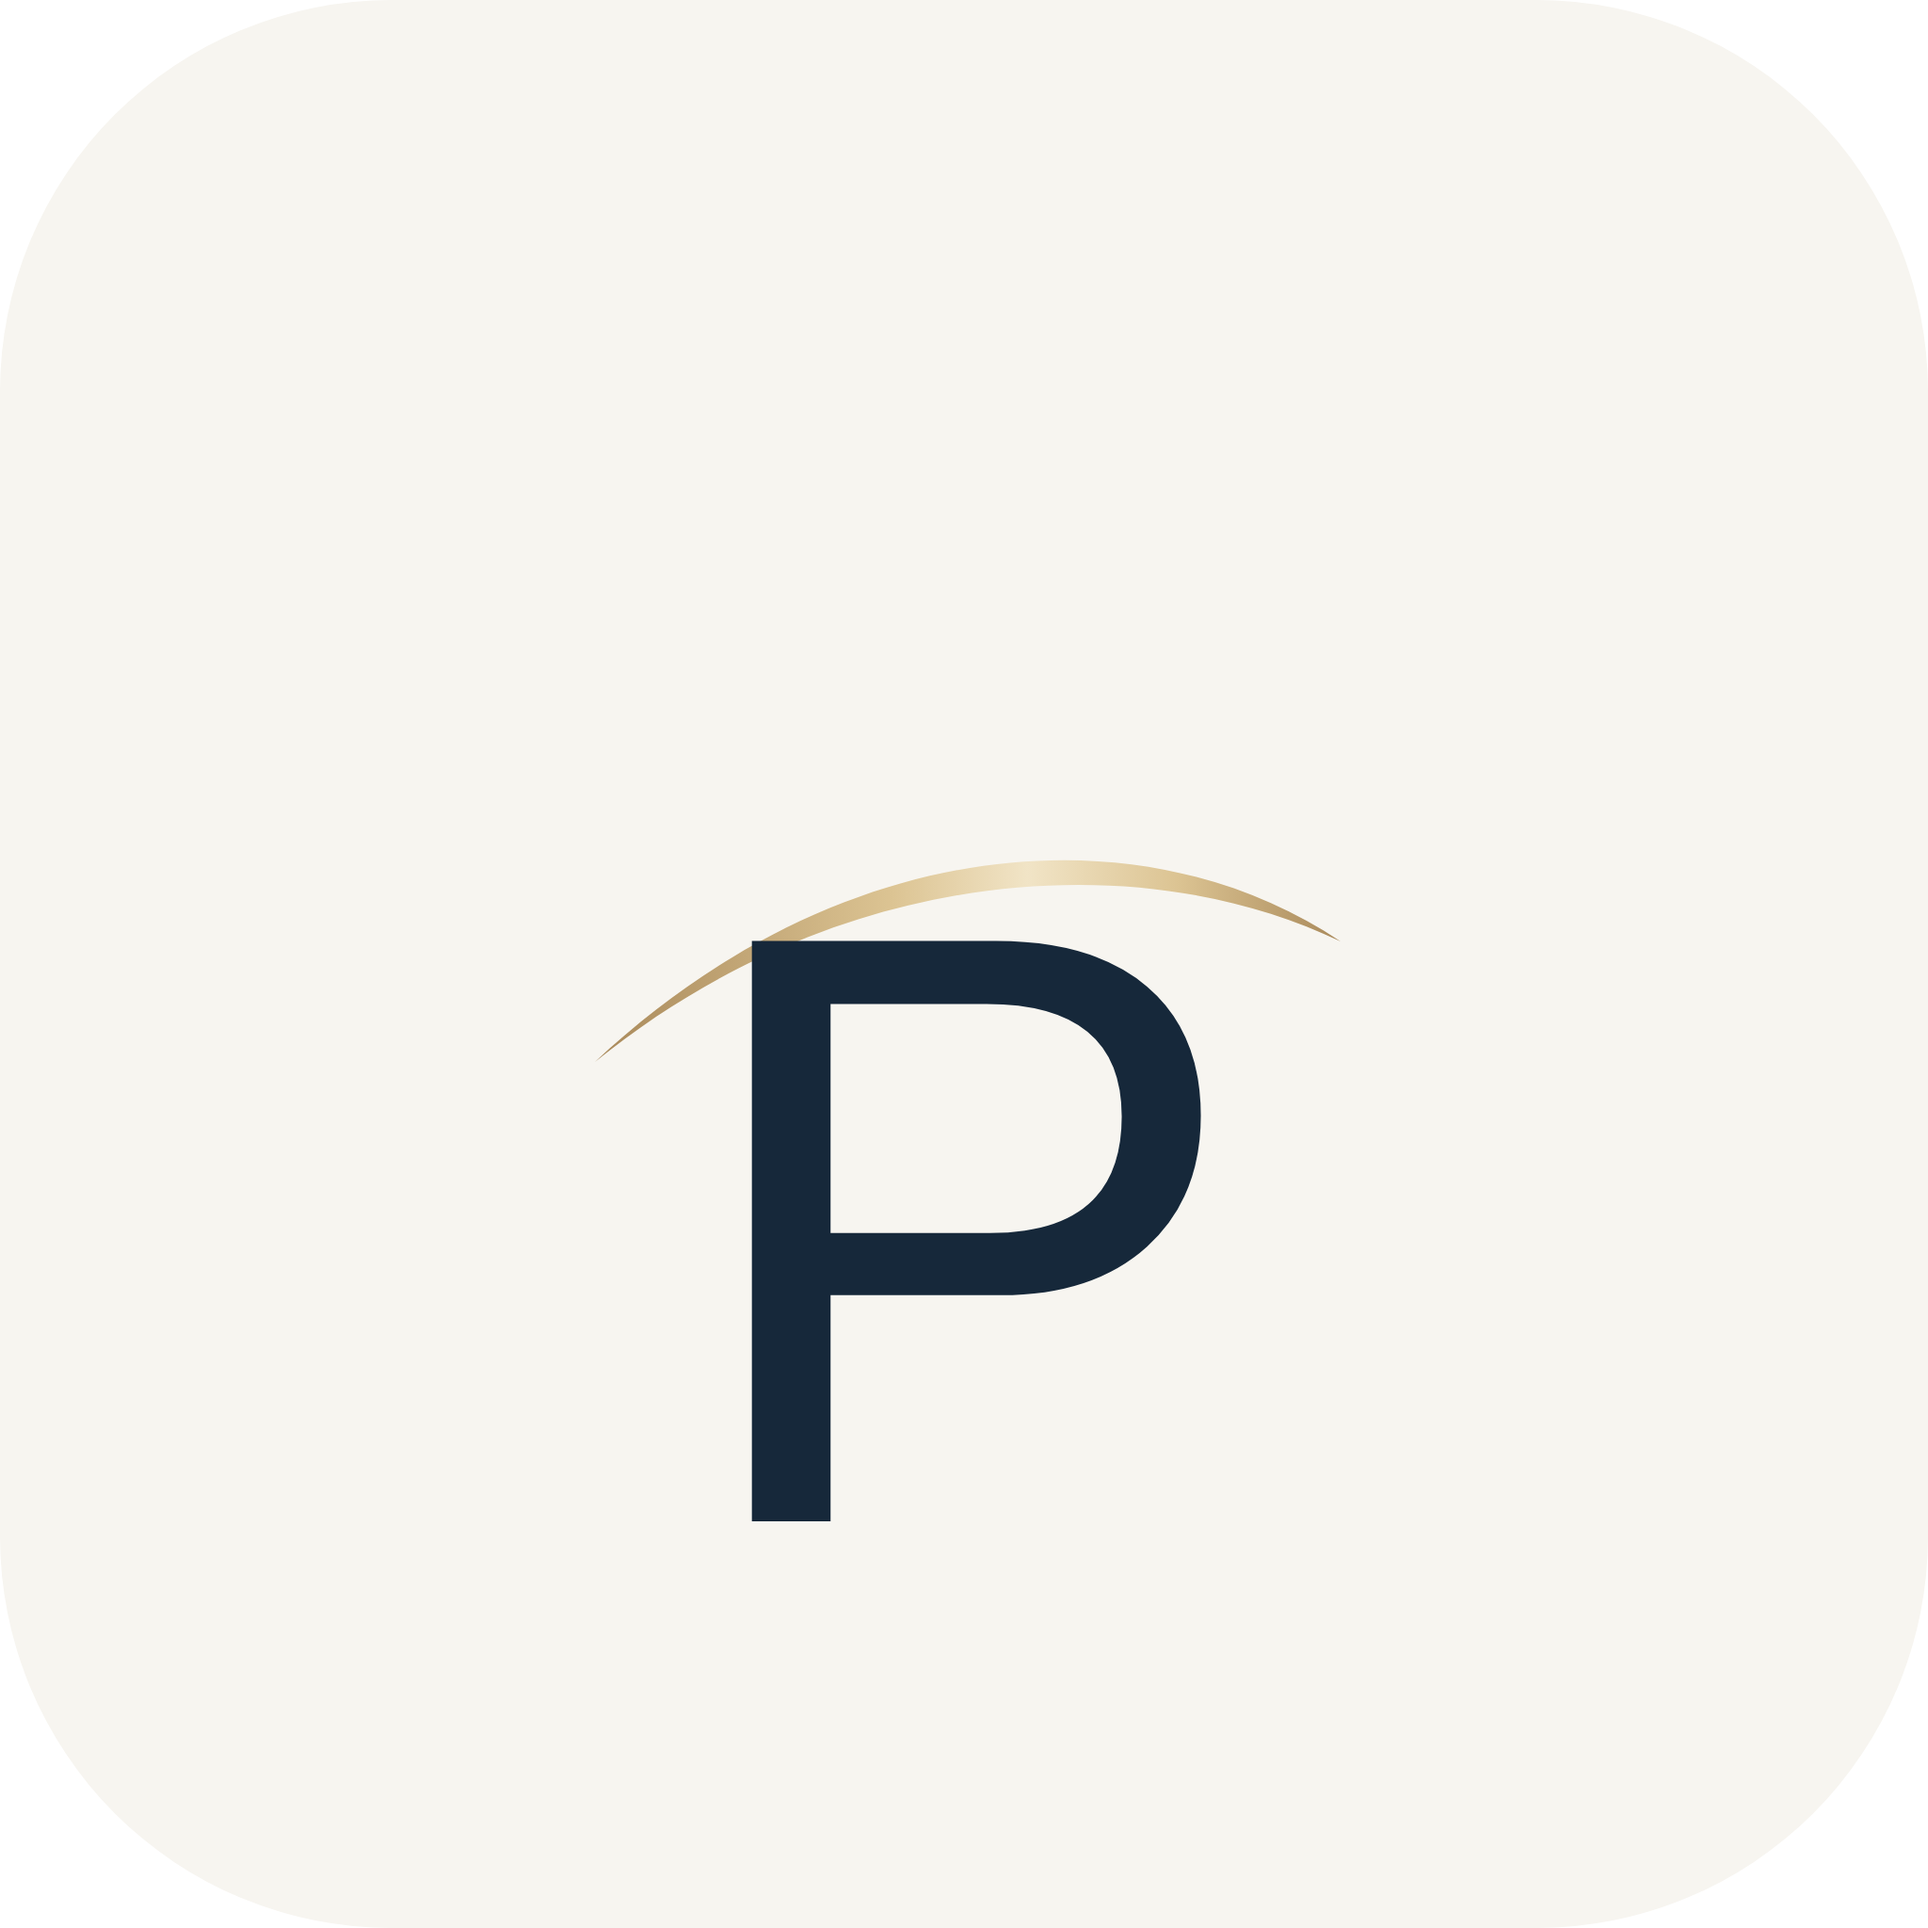
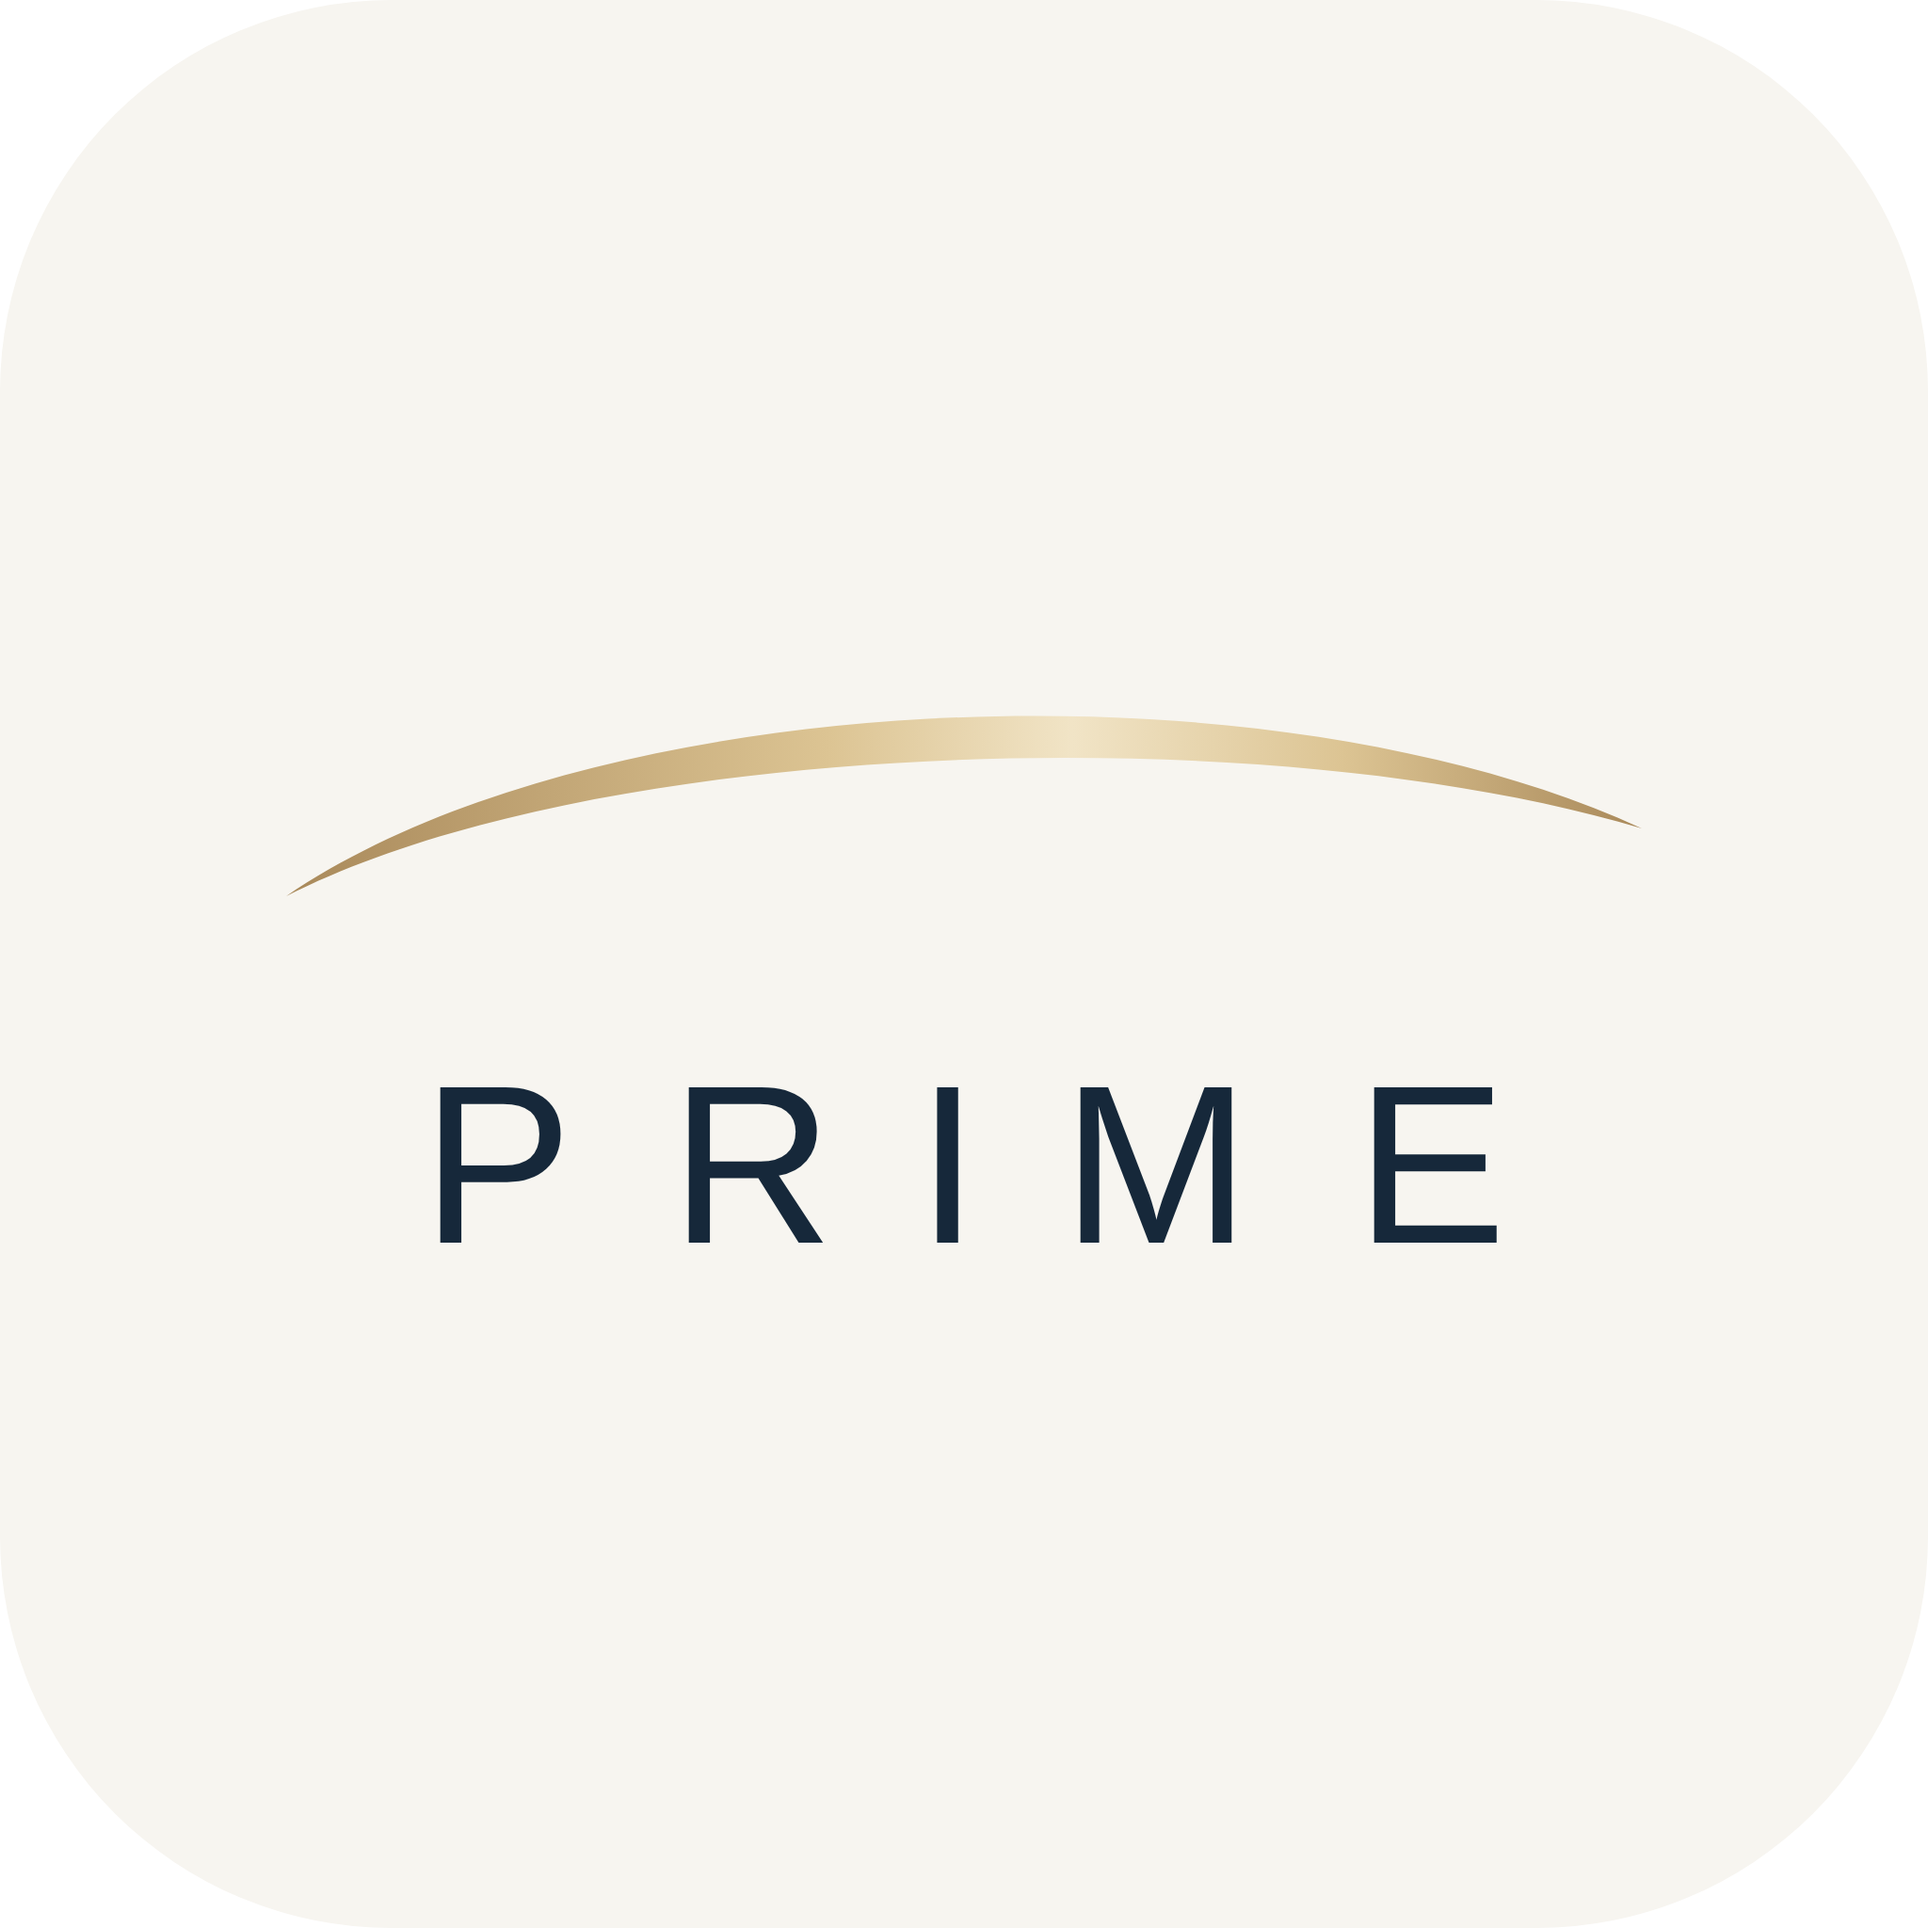
Remove a versão com letra "P" isolada — só o wordmark completo
A marca não usa mais nenhuma redução a uma única letra em nenhum
contexto. O ícone quadrado (favicon, app icon, avatar) passa a trazer
o logotipo "PRIME" por extenso ajustado ao formato quadrado, mesmo em
tamanhos pequenos como o favicon de 32px.

Claude-Session: https://claude.ai/code/session_01WhNFRwZ8iVAzDTo6XYENnA

diff --git a/brand/GUIA_DE_MARCA.md b/brand/GUIA_DE_MARCA.md
@@ -9,19 +9,20 @@ Guia de uso da marca PRIME, desenvolvido a partir da referência de logotipo for
 | `logo-primario.svg` | Logotipo colorido para fundos claros (branco, off-white). Uso principal em site, documentos, apresentações, papelaria. |
 | `logo-reverso.svg` | Logotipo em off-white/champagne para fundos escuros (petróleo, preto, fotos escuras). |
 | `logo-mono-petroleo.svg` | Versão em cor única, para aplicações de baixo contraste: carimbos, marca d'água, impressão em preto e branco, fax/scan. |
-| `marca-icone.svg` | Símbolo reduzido (arco + "P") para favicon, ícone de app, avatar de redes sociais e demais espaços quadrados/pequenos onde o wordmark completo perde legibilidade. |
+| `marca-icone.svg` | Versão do logotipo completo ("PRIME" + arco) ajustada para o formato quadrado — favicon, ícone de app, avatar de redes sociais. A marca não tem versão reduzida a uma letra isolada: em qualquer tamanho, "PRIME" por extenso é o único símbolo da PRIME. |
 | `paleta.css` | Tokens de cor em CSS custom properties, para uso em produtos digitais (site, app). |
 
 ## Logotipo
 
 - **Área de proteção**: mantenha ao redor do logotipo um espaço livre mínimo equivalente à altura da letra "P" do wordmark. Nenhum outro elemento (texto, imagem, borda) deve invadir essa área.
-- **Tamanho mínimo**: 120px de largura para o logotipo horizontal completo; 24px para o símbolo isolado (`marca-icone.svg`). Abaixo disso, o arco perde nitidez.
+- **Tamanho mínimo**: 120px de largura para o logotipo horizontal completo; 48px para a versão quadrada (`marca-icone.svg`). Em favicon (32px) a palavra "PRIME" fica pequena mas ainda legível — é uma limitação aceita conscientemente, já que a marca não usa uma versão reduzida a uma única letra.
 - **Não fazer**:
   - Não distorcer, inclinar ou espelhar o logotipo.
   - Não alterar as cores fora da paleta definida.
   - Não adicionar sombras, contornos, brilho ou efeitos 3D.
   - Não reduzir o espaçamento entre letras do wordmark.
   - Não usar o arco isoladamente como elemento decorativo genérico — ele pertence à marca e deve sempre remeter ao logotipo.
+  - Não usar nenhuma letra isolada (ex.: só o "P") como símbolo da marca, em nenhum contexto ou tamanho.
 
 ## Paleta de cores
 
